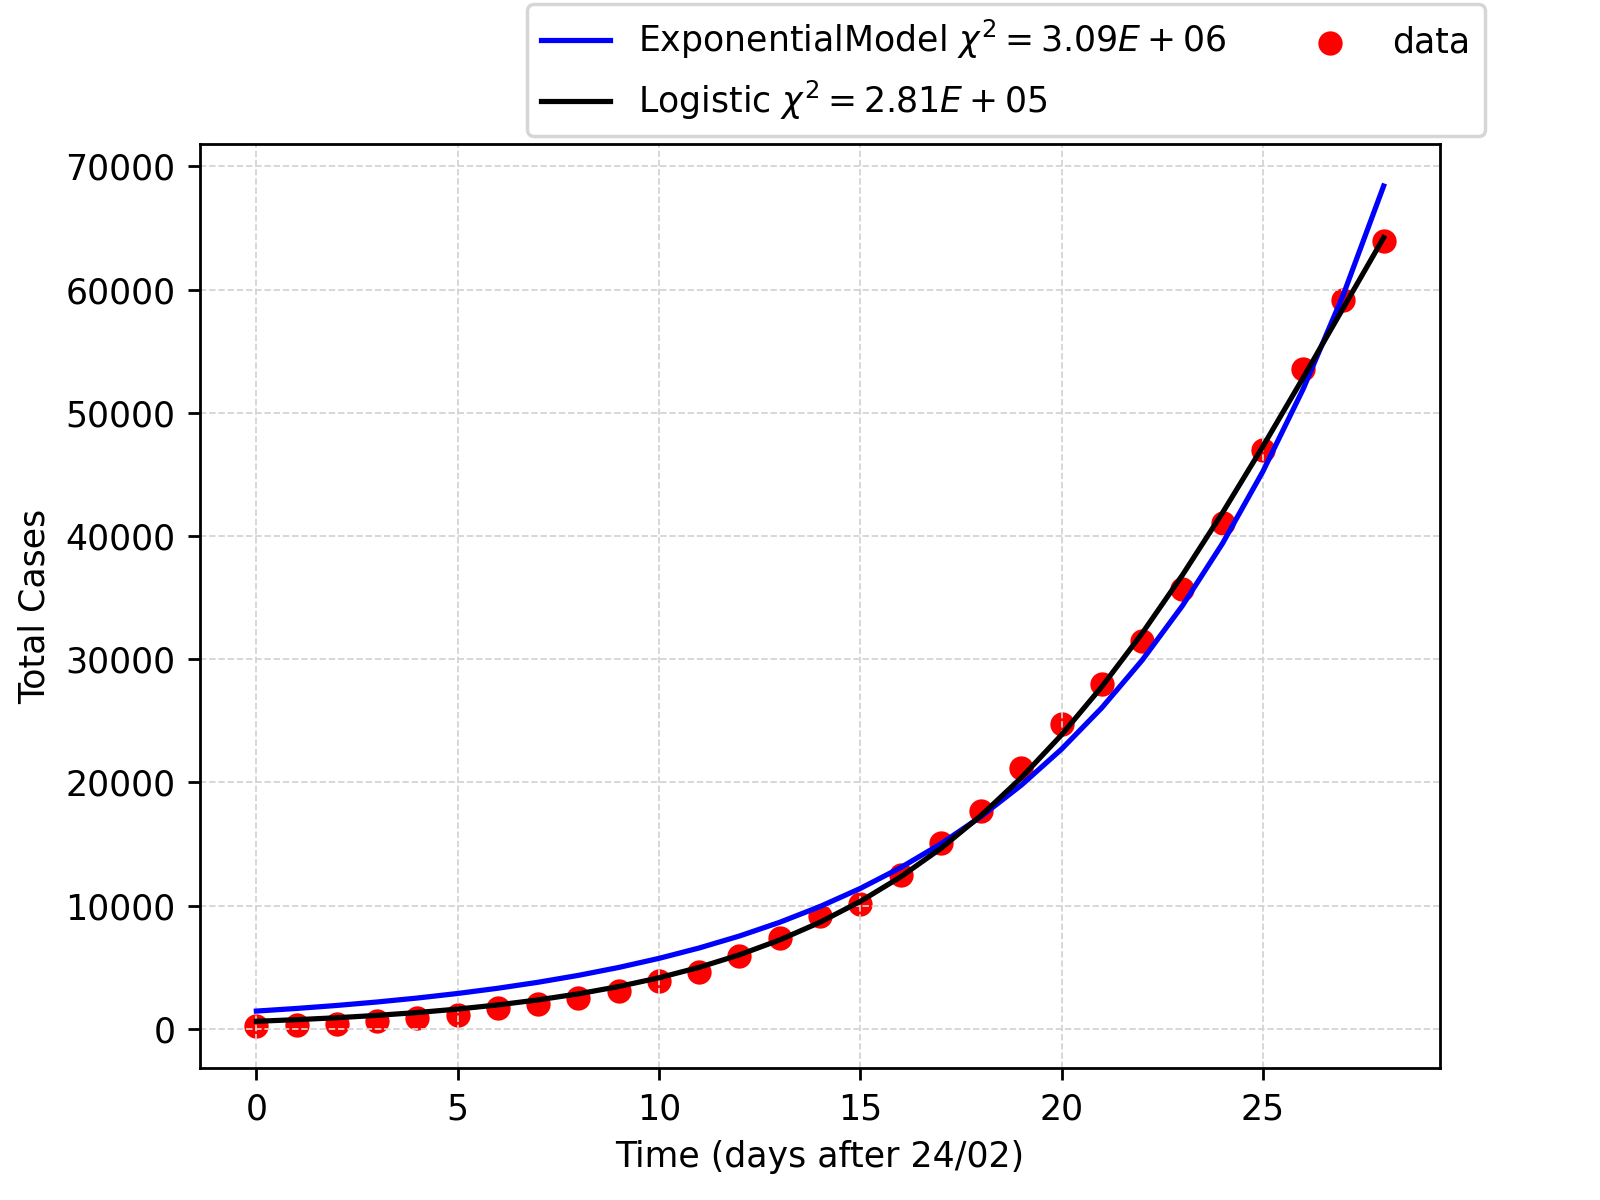
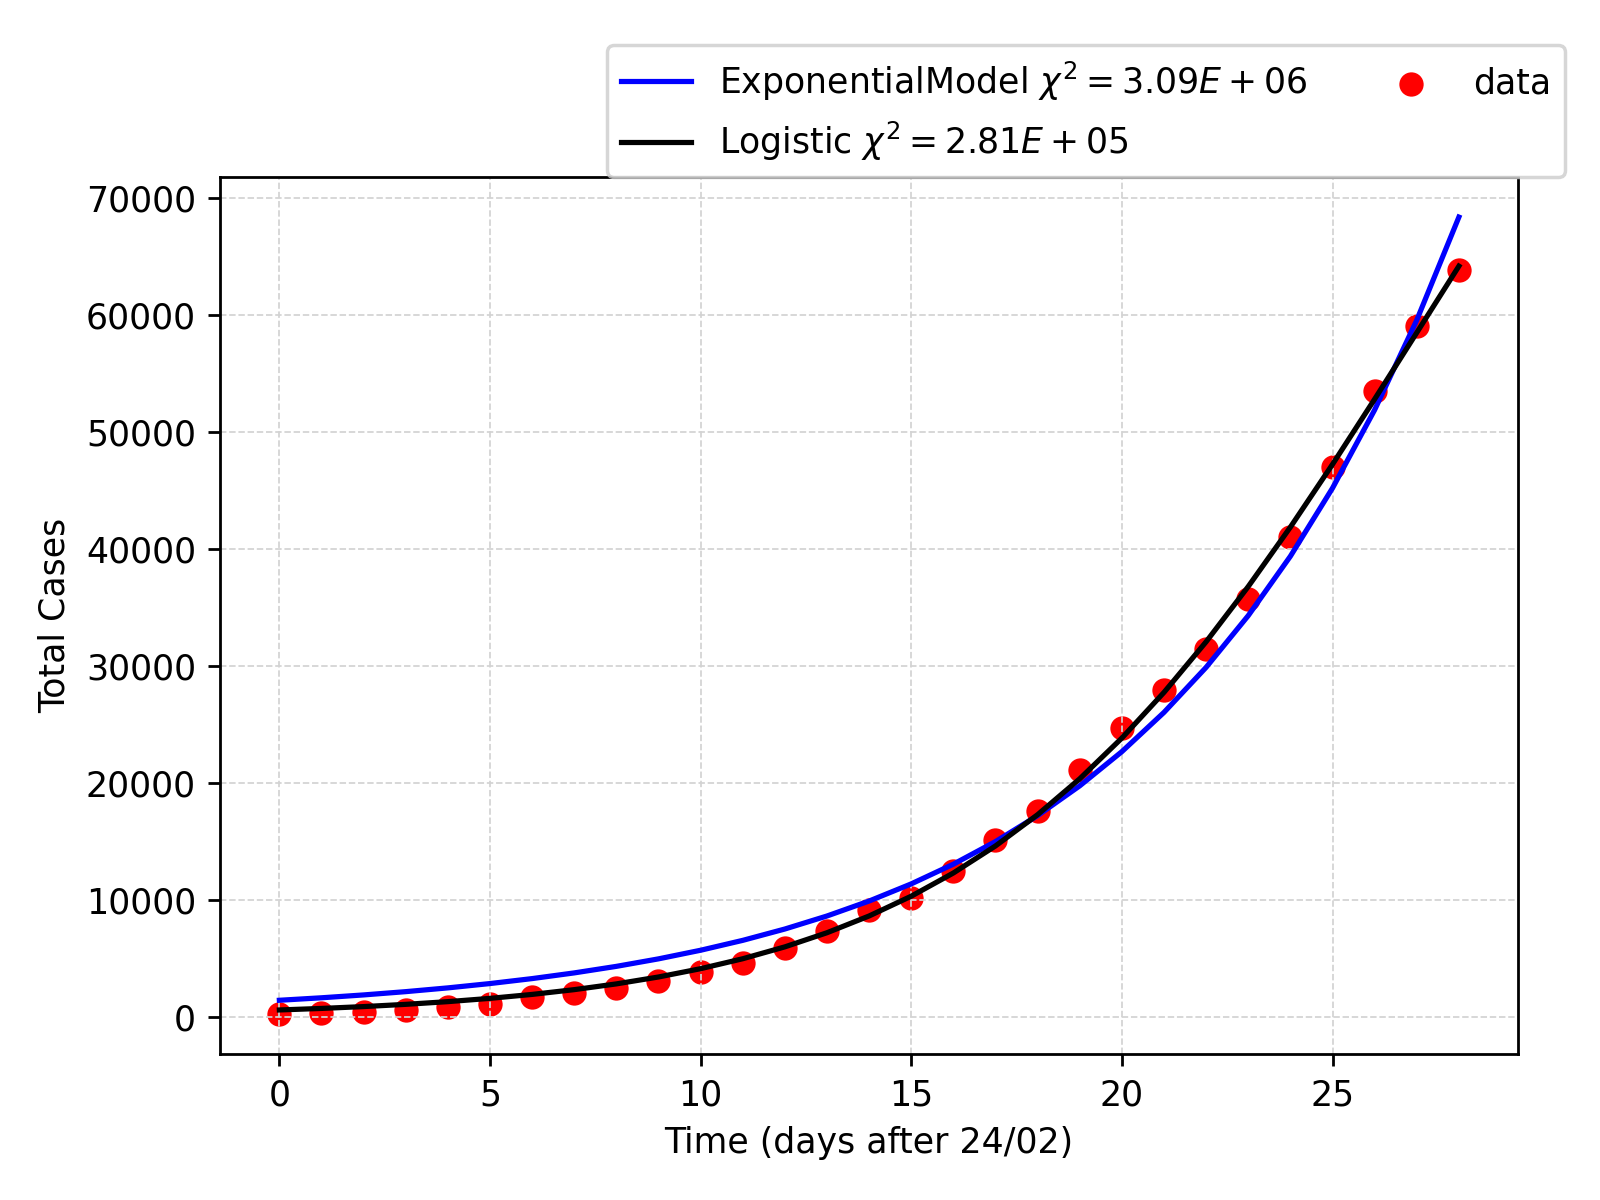
tight layout

diff --git a/new_fit.py b/new_fit.py
@@ -46,7 +46,9 @@ plt.ylabel('Log of Total Cases')
 plt.legend(('fit (R2={:.3f})'.format(score), 'log data'),loc='upper right', bbox_to_anchor=(1.05, 1.15))
 plt.grid(color='lightgray', linestyle='--', linewidth=0.5)
 plt.savefig('./FIT/fit_1.png', dpi=250)
+plt.tight_layout()
 plt.clf()
+plt.close()
 
 plt.scatter(x,y,color = 'red')
 plt.plot(x,np.exp(log_y_pred),color = 'blue')
@@ -55,8 +57,10 @@ plt.xlabel('Time (days after 24/02)')
 plt.ylabel('Total Cases')
 plt.legend(('fit (R2={:.3f})'.format(score), 'data'),loc='upper right', bbox_to_anchor=(1.05, 1.15))
 plt.grid(color='lightgray', linestyle='--', linewidth=0.5)
+plt.tight_layout()
 plt.savefig('./FIT/fit_2.png', dpi=250)
 plt.clf()
+plt.close()
 ################################################################################################################################
 
 #Building the exponential model
@@ -82,8 +86,10 @@ plt.legend((
 'data'
 ),loc='upper right', bbox_to_anchor=(1.05, 1.17), ncol=2)
 plt.grid(color='lightgray', linestyle='--', linewidth=0.5)
+plt.tight_layout()
 plt.savefig('./FIT/fit_3.png', dpi=250)
 plt.clf()
+plt.close()
 
 #predictions for future days
 n_more_days = 10
@@ -111,5 +117,7 @@ plt.legend((
 'data'
 ),loc='upper right', bbox_to_anchor=(1.05, 1.17), ncol=2)
 plt.grid(color='lightgray', linestyle='--', linewidth=0.5)
+plt.tight_layout()
 plt.savefig('./FIT/fit_4.png', dpi=250)
 plt.clf()
+plt.close()
